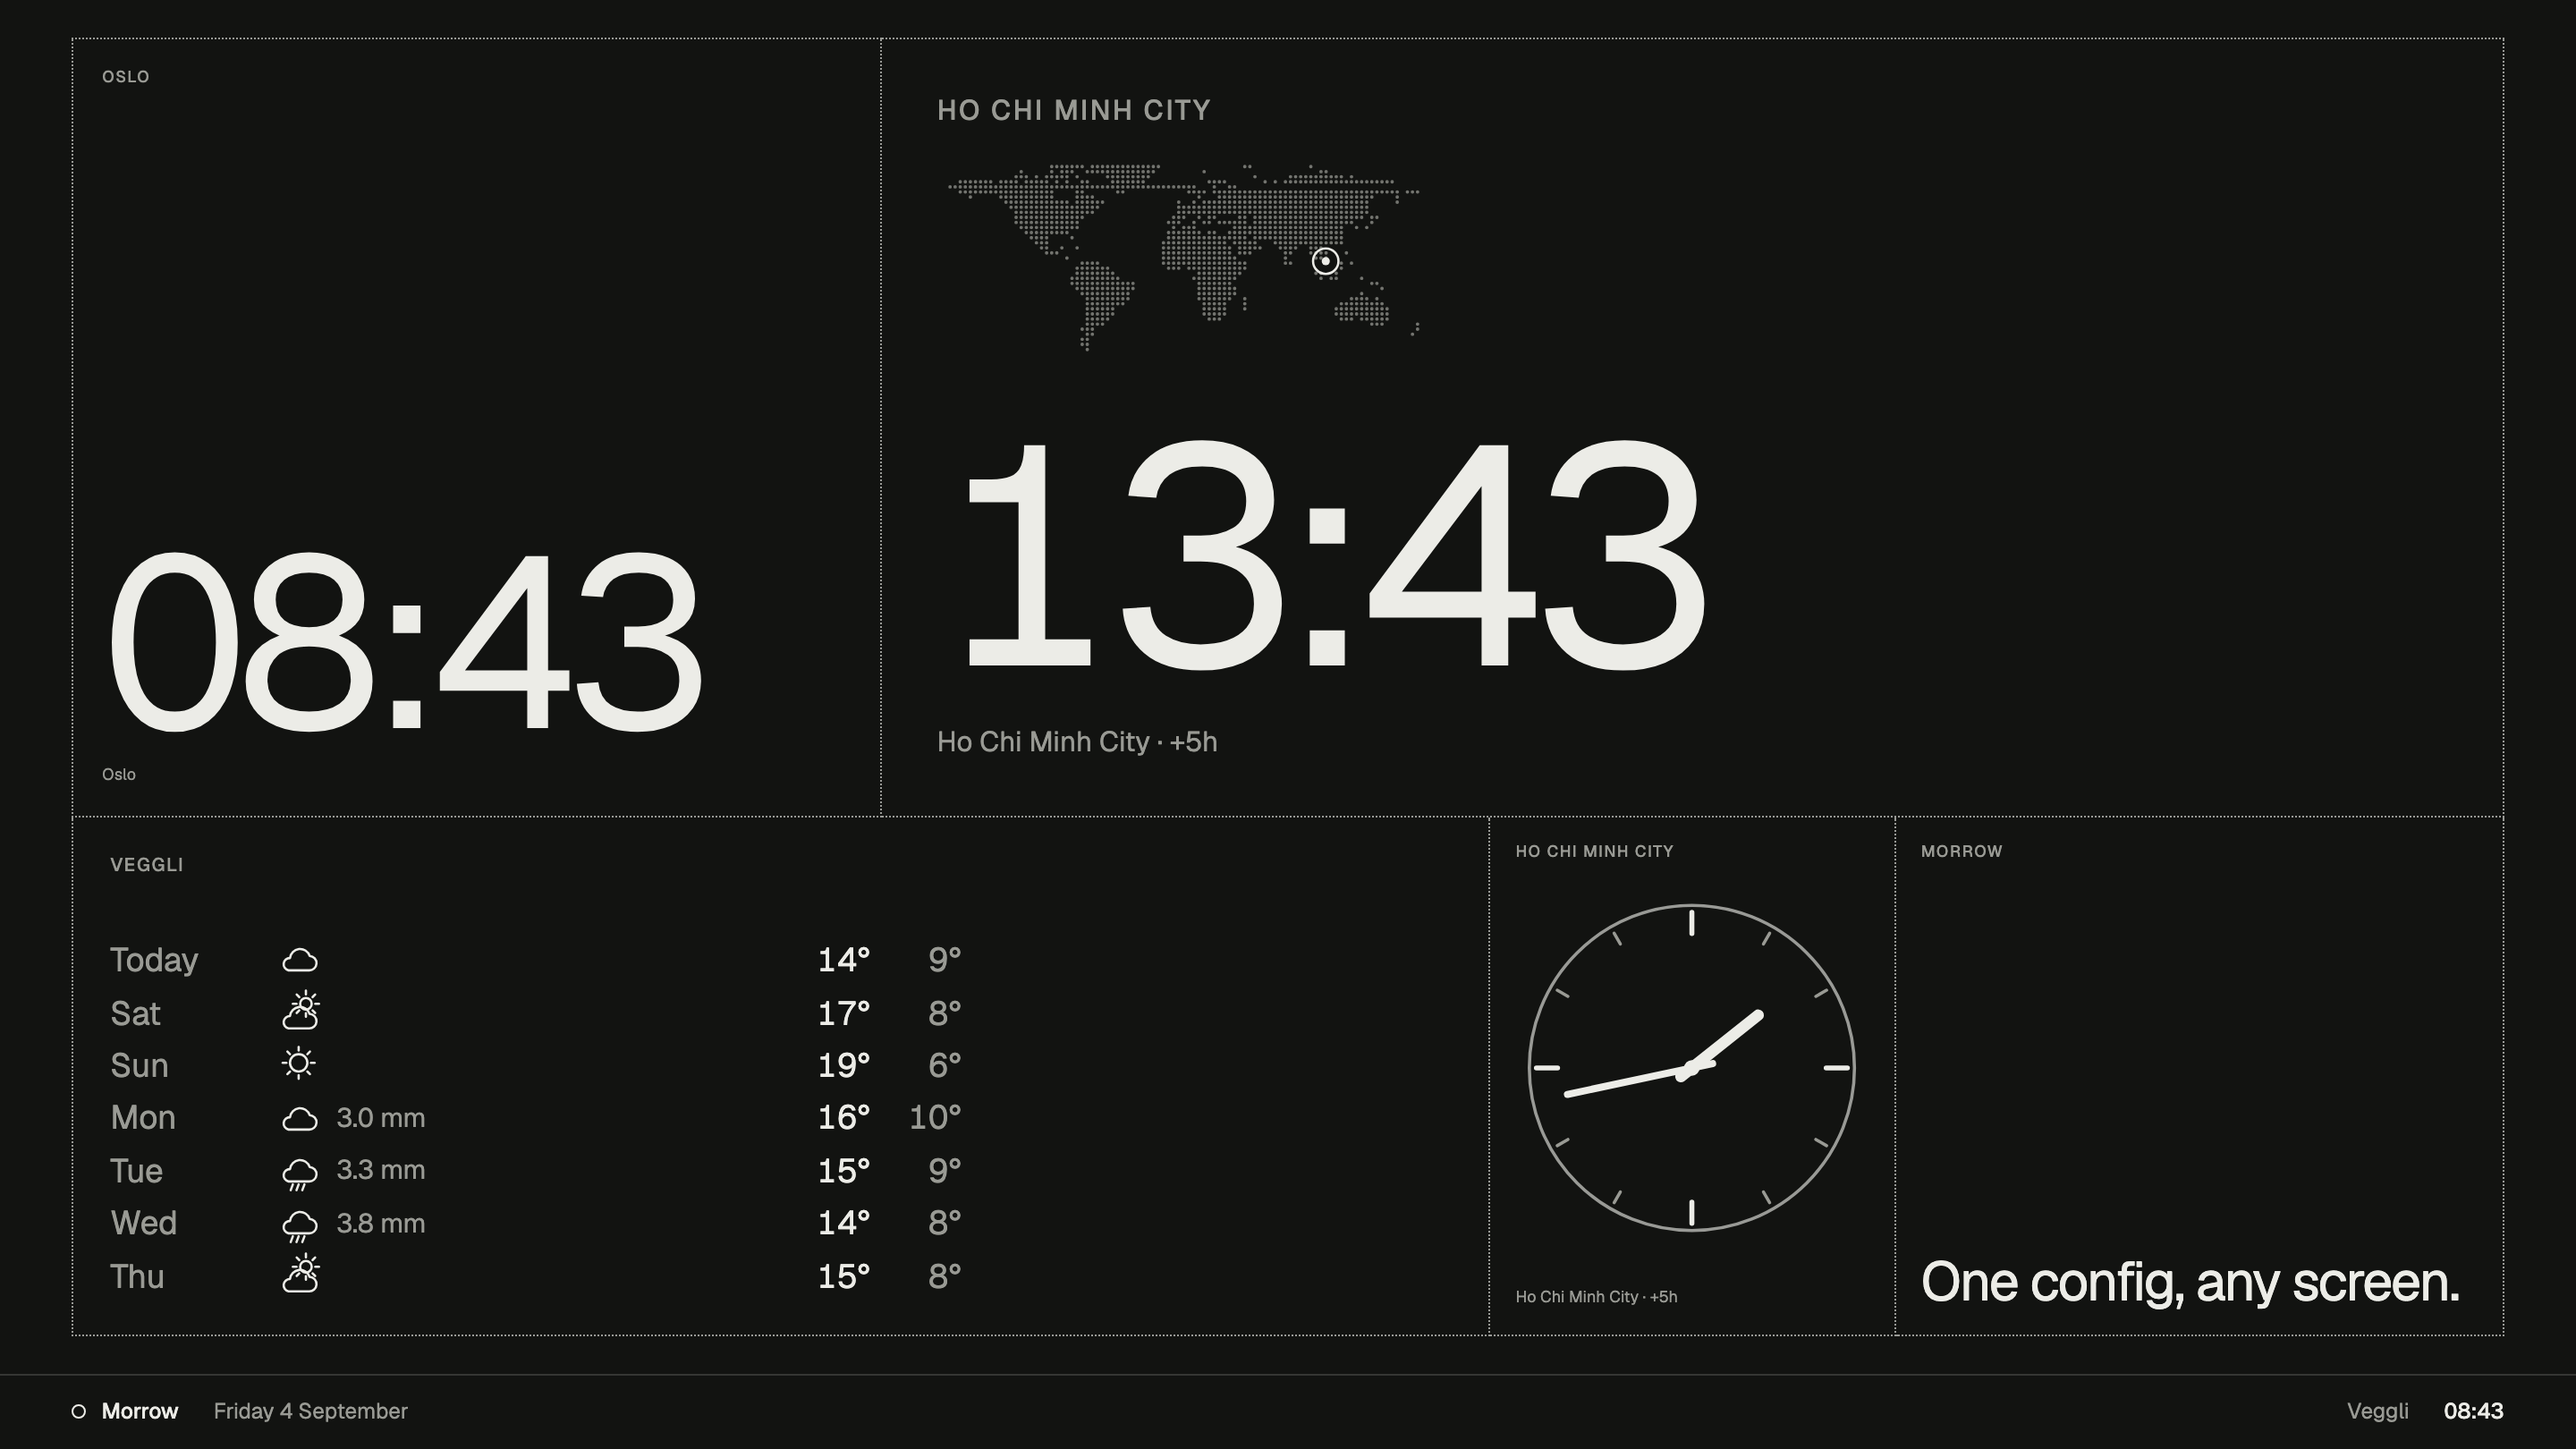
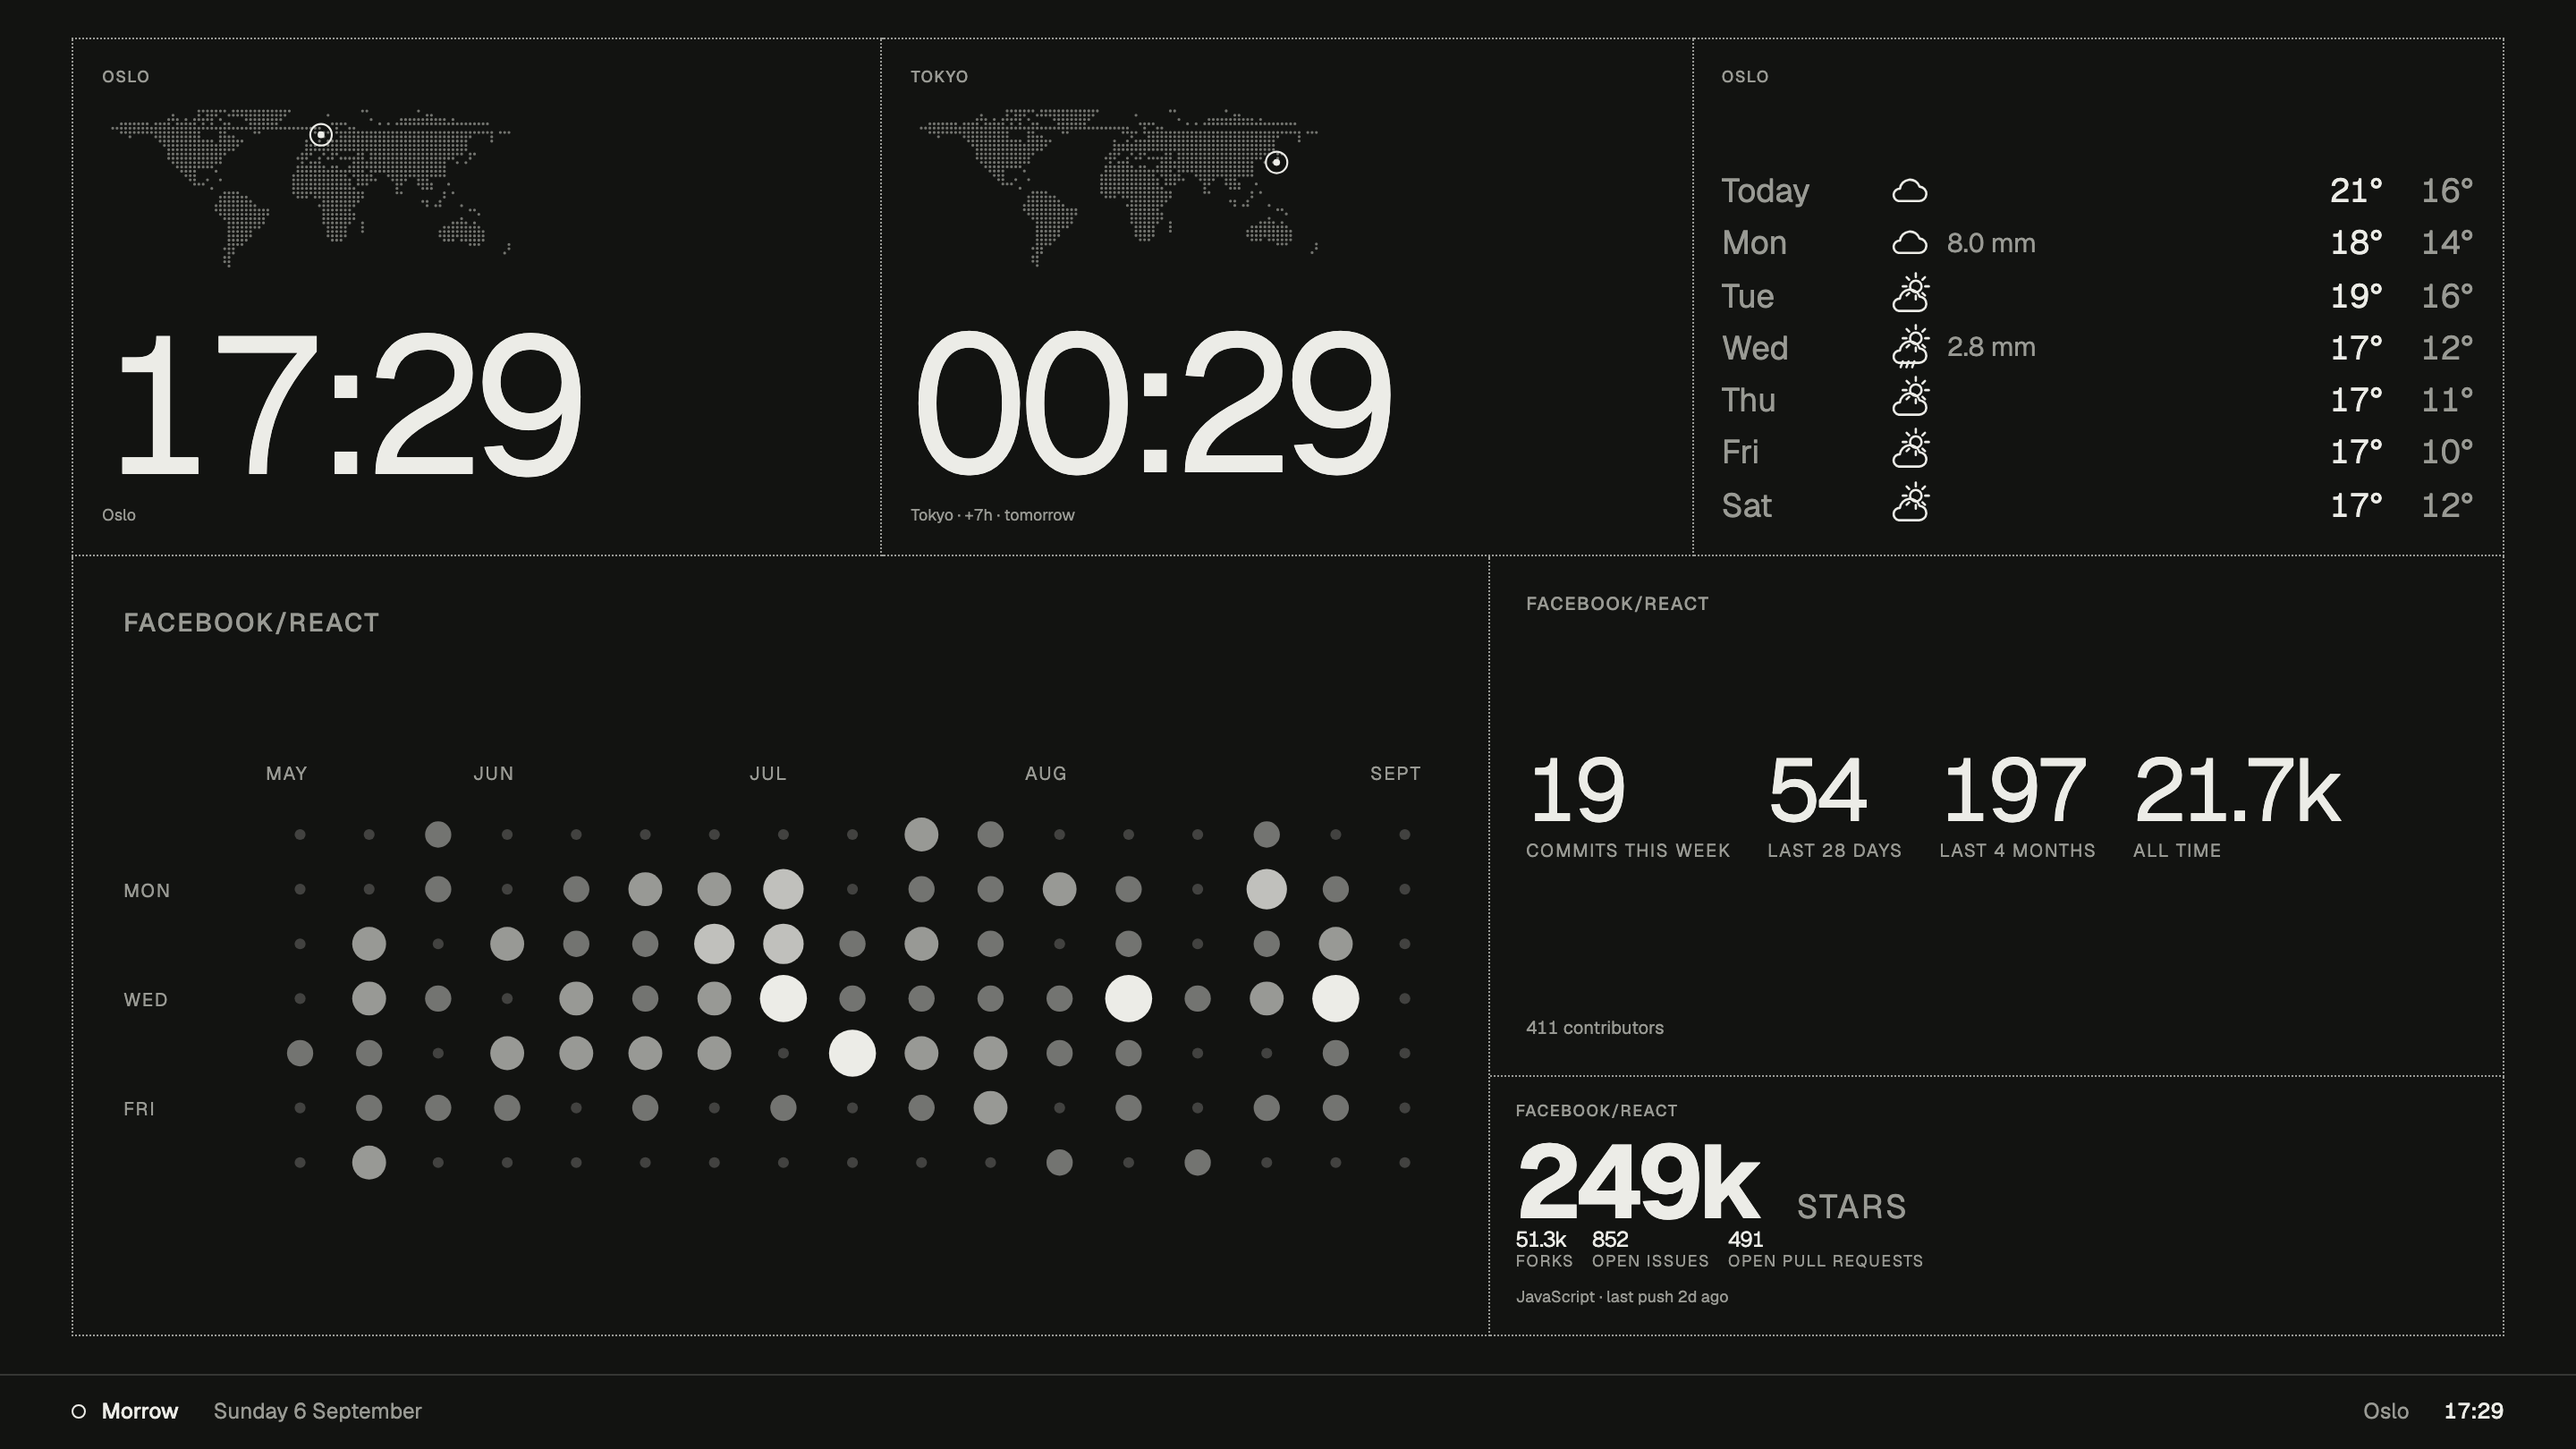
Screenshots show a demo Glance, not a real install (#2)
The README images carried Aptide's organisation name, its contributors'
GitHub handles and commit counts, and the location of a home village.
None of that belongs in a public README, and it would have kept
creeping back every time the screenshots were regenerated from a
working display.

They now come from a neutral demo: world clocks for Oslo and Tokyo, a
week of Norwegian weather, and a large public repository shown through
the views that count commits rather than the one that names people.

The two configurations are committed beside the images, with the
throwaway-instance recipe, so the next regeneration is reproducible and
never has to be pointed at somebody's own Glance.

Admin moves to 1440 x 900. The sidebar has grown a language, a clock
and footer toggles since these were last taken, and the page no longer
fits 810 pixels of height.

diff --git a/docs/screenshots/README.md b/docs/screenshots/README.md
@@ -1,15 +1,34 @@
 # Screenshots
 
-Used by the project README. Regenerate them by building the layout in Admin and
-capturing the Player and Admin at a 2× device pixel ratio, so text stays crisp
-on high-density displays.
+Used by the project README. They show a neutral demo Glance, never a real
+install: no company, no colleagues, no private calendars. Keep it that way.
+
+The two configurations they were captured from are beside this file, so they can
+be reproduced exactly. Serve them to a throwaway instance rather than your own:
+
+```bash
+npm run build:node
+MORROW_SQLITE_PATH=/tmp/demo.db PORT=3100 MORROW_ADMIN_TOKEN=demo \
+  node dist/standalone/server.js &
+curl -X PUT http://127.0.0.1:3100/api/config -H 'Authorization: Bearer demo' \
+  -H 'content-type: application/json' --data-binary @docs/screenshots/demo-glance.json
+```
+
+Capture at a 2× device pixel ratio so text stays crisp on high-density displays.
+The GitHub blocks point at a large public repository and use only the views that
+show counts rather than contributor names.
 
 | File                 | Where it is used                                               | Size             |
 | -------------------- | -------------------------------------------------------------- | ---------------- |
 | `player-white.png`   | README hero                                                    | 1440 × 810 at 2× |
 | `player-black.png`   | README design language section                                 | 1440 × 810 at 2× |
-| `admin.png`          | README Admin section                                           | 1440 × 810 at 2× |
+| `admin.png`          | README Admin section                                           | 1440 × 900 at 2× |
 | `social-preview.png` | GitHub repository social preview, set under Settings → General | 1280 × 640 at 2× |
 
 `public/og.png` is the running app's own Open Graph card, referenced from
-`app/layout.tsx` at 1200 × 630.
+`app/layout.tsx` at 1200 × 630. It comes from `demo-social.json`, captured at 1×.
+
+| Configuration      | Used for                                                             |
+| ------------------ | -------------------------------------------------------------------- |
+| `demo-glance.json` | `player-white.png`, `player-black.png` (`color: black`), `admin.png` |
+| `demo-social.json` | `social-preview.png`, `public/og.png`                                |

diff --git a/README.md b/README.md
@@ -9,7 +9,7 @@ Morrow keeps content, layout, and output separate:
 - **Morrow Plugins** provide content and views without coupling integrations to the Player.
 - **Morrow Server** stores one shared configuration in Cloudflare D1 and serves it to Admin and every Player.
 
-![The Morrow Player showing the time in Oslo and Ho Chi Minh City, a world map, and a weather forecast](docs/screenshots/player-white.png)
+![The Morrow Player showing world clocks for Oslo and Tokyo, a week of weather, and a repository's commit activity](docs/screenshots/player-white.png)
 
 Self-host it with `docker compose up`, or deploy it to Cloudflare Workers. Storage is SQLite or D1 behind one small adapter, so the same code runs either way.
 
